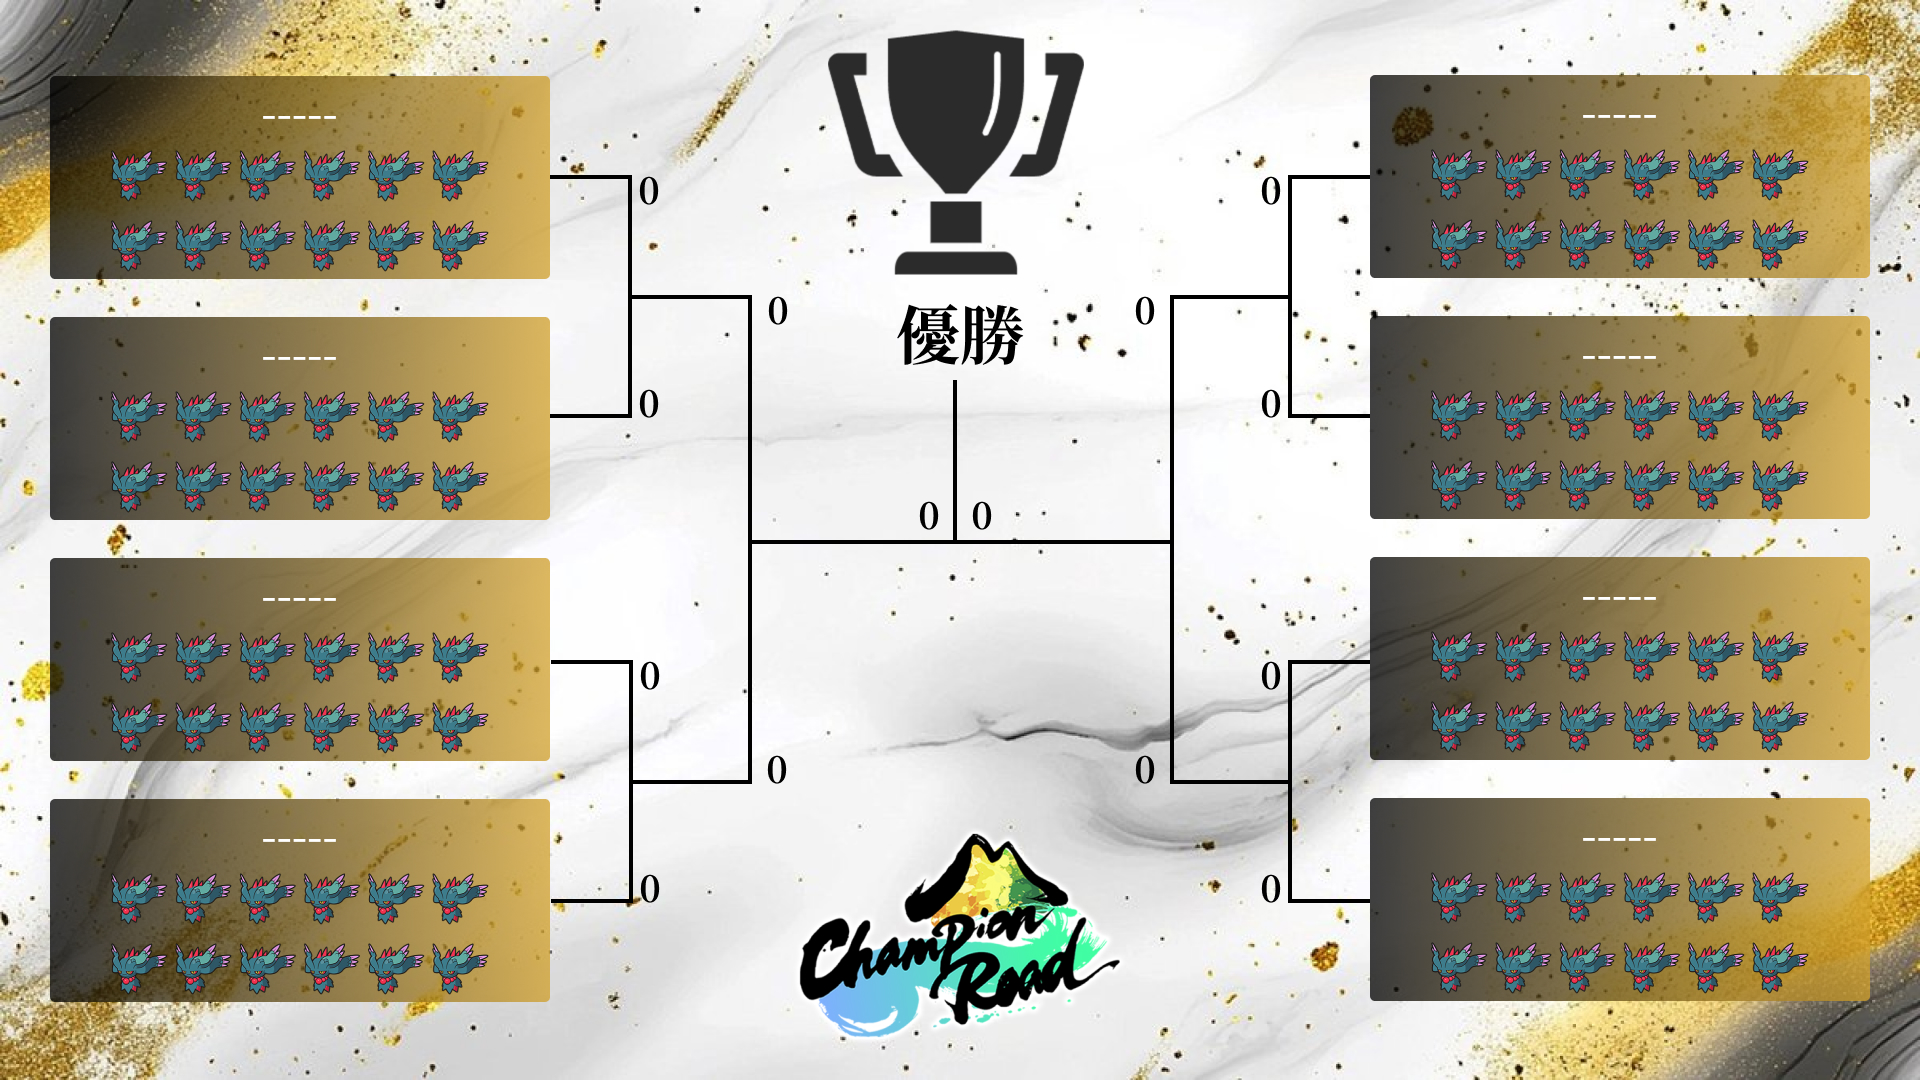
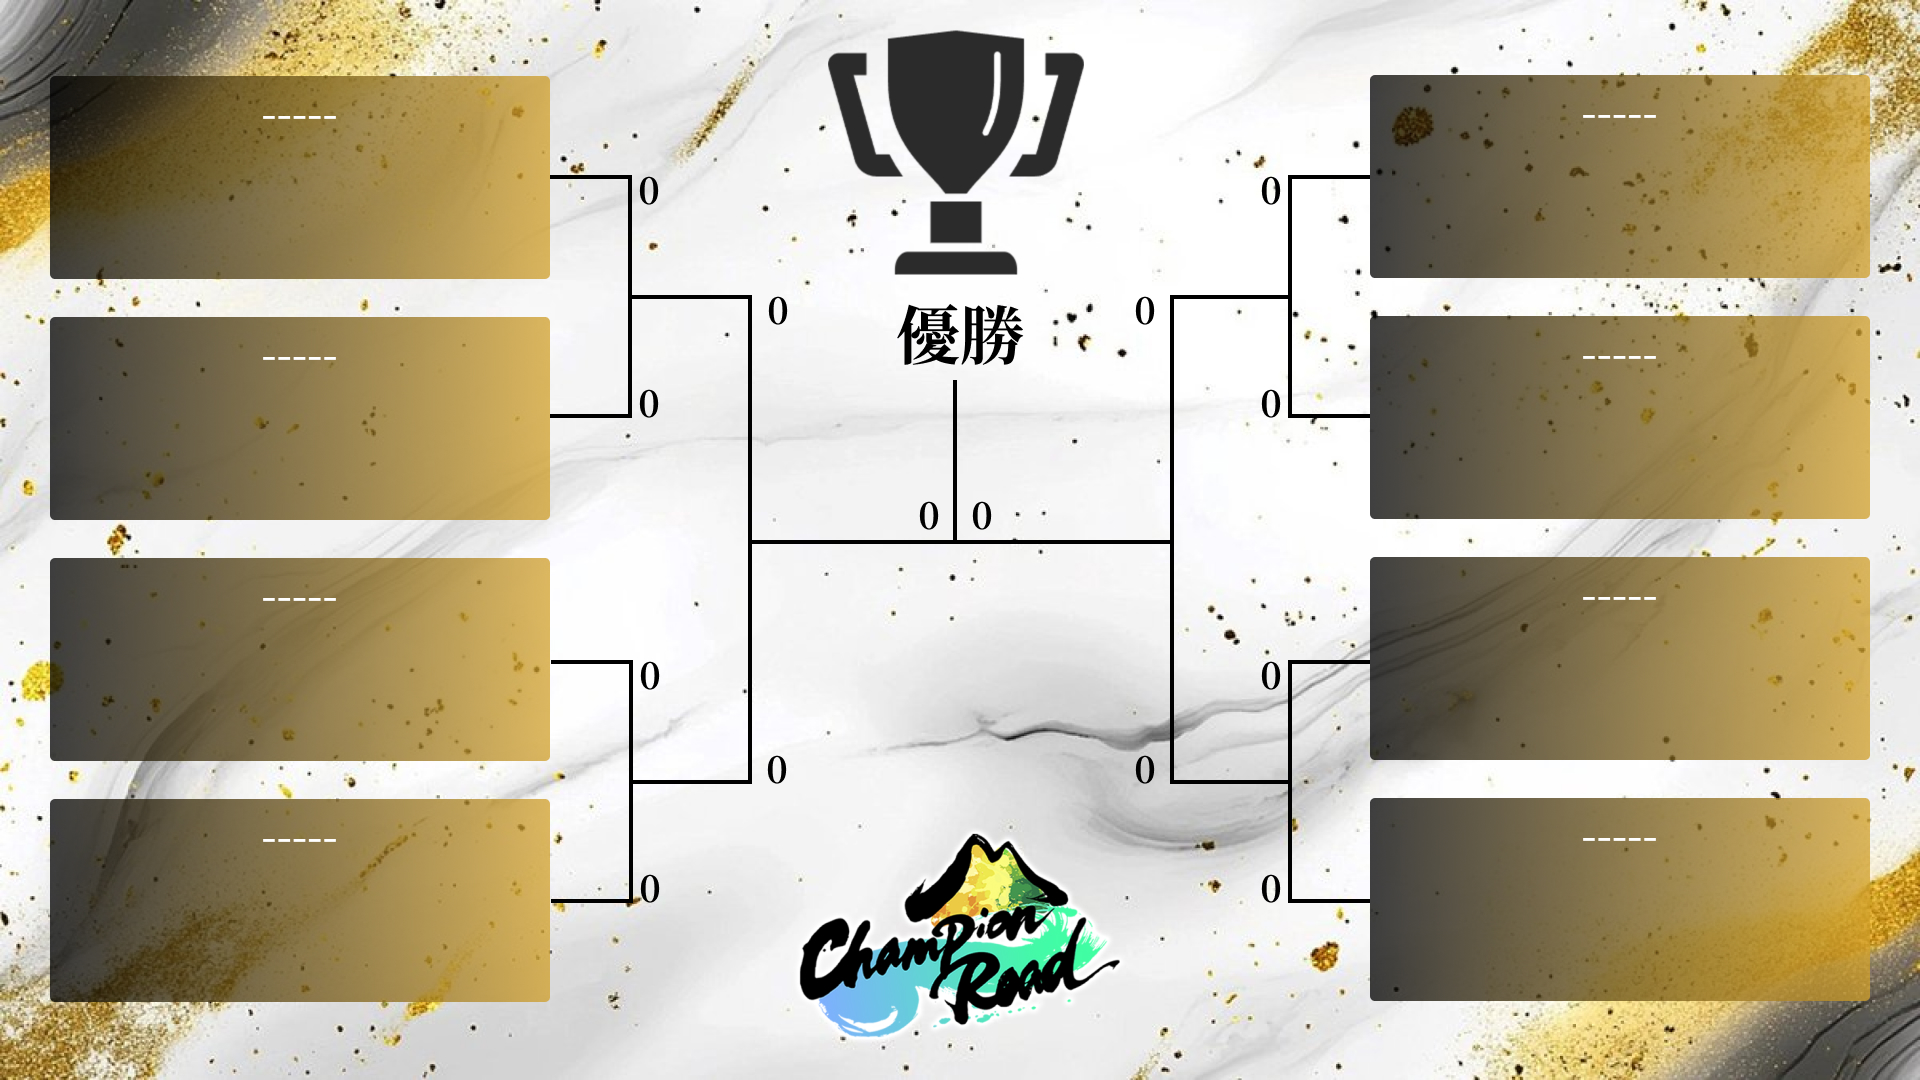
fix: ブラケットのスタイルを調整

diff --git a/src/components/Topcut/TopcutPlayerSelector.tsx b/src/components/Topcut/TopcutPlayerSelector.tsx
@@ -5,87 +5,114 @@ import { useCallback, useMemo } from 'react';
 import { PokemonNum } from '../../types/scoreboard';
 import { emptyParty, pokemonNumList } from '../../utils/const';
 
+// プレイヤー選択とパーティ選択を組み合わせた型
+type PlayerWithPartyOption = {
+  label: string;
+  playerName: string;
+  partyNum?: number;
+  accountID?: string;
+};
+
 // TODO: プレイヤーが重複した時にエラーを出す
 export const TopcutPlayerSelector = ({ topcutPlace }: { topcutPlace: number }) => {
-  const [playerRep] = useReplicant('Player');
   const [partiesRep] = useReplicant('Parties');
   const [topcutRep, setTopcutRep] = useReplicant('Topcut');
-  const playerName = useMemo(
-    () => topcutRep?.players?.find((player) => player.place === topcutPlace)?.name ?? 'なし',
-    [topcutRep, topcutPlace]
-  );
-  const players = useMemo(
-    () => [...new Set(playerRep?.map((player) => player.player_name || '')), 'なし'],
-    [playerRep]
-  );
+
+  // 現在選択されているプレイヤーの情報
+  const selectedPlayerInfo = useMemo(() => {
+    const currentPlayer = topcutRep?.players?.find((player) => player.place === topcutPlace);
+    if (!currentPlayer || currentPlayer.name === 'なし') {
+      return { label: 'なし', playerName: 'なし' };
+    }
+    return { label: currentPlayer.name, playerName: currentPlayer.name.split('_')[0] };
+  }, [topcutRep, topcutPlace]);
+
+  // 利用可能なプレイヤー＋パーティのオプション
+  const playerOptions = useMemo(() => {
+    // 「なし」オプション
+    const options: PlayerWithPartyOption[] = [{ label: 'なし', playerName: 'なし' }];
+
+    // パーティデータからオプションを作成
+    if (partiesRep) {
+      const partyOptions = [...partiesRep].filter(party => party.accountID && party.party_num && party.player_name)
+        .map(party => ({
+          label: `${party.player_name}_${party.party_num}`,
+          playerName: party.player_name || '',
+          partyNum: party.party_num || undefined,
+          accountID: party.accountID || undefined
+        }));
+
+      options.push(...partyOptions);
+    }
+
+    return options;
+  }, [partiesRep]);
+
+  // 特定のパーティからポケモン情報を取得
   const getParty = useCallback(
-    (playerName: string) => {
-      if (!partiesRep) return emptyParty;
-      
-      // デバッグ用のログ追加
-      console.log('検索するプレイヤー名:', playerName);
-      console.log('利用可能なプレイヤー名一覧:', [...partiesRep].map(p => p.player_name));
-      
-      const partyInfo = [...partiesRep].find((party) => {
-        if (!party.player_name) return false;
-        
-        if (party.player_name.includes(playerName) || playerName.includes(party.player_name)) {
-          console.log('部分一致したが完全一致しなかったケース:', {
-            検索名: playerName,
-            データベース上の名前: party.player_name,
-            長さ: {
-              検索名: playerName.length,
-              データベース上の名前: party.player_name.length
-            },
-            文字コード: {
-              検索名: Array.from(playerName).map(c => c.charCodeAt(0)),
-              データベース上の名前: Array.from(party.player_name).map(c => c.charCodeAt(0))
-            }
-          });
-        }
-        return party.player_name === playerName;
-      });
+    (option: PlayerWithPartyOption) => {
+      if (!partiesRep || option.playerName === 'なし') return emptyParty;
+
+      console.log('選択されたオプション:', option);
+
+      // パーティ番号で絞り込む
+      const partyInfo = option.partyNum !== undefined
+        ? [...partiesRep].find(party =>
+            party.player_name === option.playerName &&
+            party.party_num === option.partyNum)
+        : [...partiesRep].find(party =>
+            party.player_name === option.playerName);
 
       console.log('見つかったパーティ情報:', partyInfo);
-      console.log('pokemonNumList:', pokemonNumList);
-      
+
+      // パーティが見つからない場合は空のパーティを返す
+      if (!partyInfo) return emptyParty;
+
+      // パーティ情報からポケモン名を抽出
       const result = pokemonNumList.map((key) => {
-        const pokemon = partyInfo?.[key as PokemonNum];
+        const pokemon = partyInfo[key as PokemonNum];
         console.log(`${key}のポケモン:`, pokemon);
         return pokemon ?? '';
       });
-      
+
       return result;
     },
     [partiesRep]
   );
+
+  // 選択変更時の処理
   const onChange = useCallback(
-    (_event: unknown, newPlayer: string | null) => {
+    (_event: unknown, newOption: PlayerWithPartyOption | null) => {
       if (!topcutRep) return;
-      console.log(newPlayer);
+
+      const option = newOption || { label: 'なし', playerName: 'なし' };
+      console.log('選択されたプレイヤー:', option);
+
       setTopcutRep({
         total: topcutRep.total,
         players: topcutRep.players?.map((player) =>
           player.place === topcutPlace
             ? {
                 ...player,
-                name: newPlayer ?? 'なし',
-                party: getParty(newPlayer ?? 'なし'),
+                name: option.label,
+                party: getParty(option),
               }
             : player
         ),
       });
     },
-    [topcutRep]
+    [topcutRep, getParty]
   );
-  console.log('topcutRep', topcutRep);
+
   return (
     <Autocomplete
       id={`Topcut-PlayerSelector-${topcutPlace}`}
       size="small"
-      value={playerName}
+      value={selectedPlayerInfo}
       onChange={onChange}
-      options={players}
+      options={playerOptions}
+      isOptionEqualToValue={(option, value) => option.label === value.label}
+      getOptionLabel={(option) => option.label}
       sx={{ width: 150 }}
       renderInput={(params) => <TextField {...params} label="プレイヤー" variant="standard" />}
     />

diff --git a/src/graphics/bracket/conponents/TopcutParty.graphics.tsx b/src/graphics/bracket/conponents/TopcutParty.graphics.tsx
@@ -1,23 +1,21 @@
-import { useKP } from '../../../hooks/useKP';
 import { usePokedex } from '../../../hooks/usePokedex';
 import { emptyParty } from '../../../utils/const';
-// import { useReplicant } from '../../../hooks/useReplicant';
+import { useReplicant } from '../../../hooks/useReplicant';
 
 export const TopcutPartyGraphics = ({ place }: { place: number }) => {
-  // const [topcutRep] = useReplicant('Topcut');
+  const [topcutRep] = useReplicant('Topcut');
   const { getPokemonIcon } = usePokedex();
-  const { getSortedTopcut } = useKP();
-  const sortedTopcut = getSortedTopcut() ?? [{
-    playerName: '',
-    kpScore: 0,
-    party: emptyParty,
-  }];
 
-  const player = sortedTopcut[place - 1];
+  // 元のplaceに対応するプレイヤーを探す
+  const player = topcutRep?.players?.find(p => p.place === place);
+
+  // プレイヤーが見つからない場合は空のパーティを表示
+  const party = player?.party || emptyParty;
+
   return (
     <div className="party_row">
-      {player?.party.map((pokemon) => (
-        <img className="pokemonIcon" src={getPokemonIcon(pokemon)} alt="" />
+      {party.map((pokemon, index) => (
+        <img key={index} className="pokemonIcon" src={getPokemonIcon(pokemon)} alt="" />
       ))}
     </div>
   );

diff --git a/src/graphics/bracket/App.css b/src/graphics/bracket/App.css
@@ -6,9 +6,9 @@
   color: aliceblue;
 }
 
-body {
+/* body {
   background: url(../../assets/bracket.jpg);
-}
+} */
 
 .wrapper {
   display: flex;
@@ -24,7 +24,8 @@ body {
 .bracket-left, .bracket-right {
   display: flex;
   flex-direction: column;
-  margin: 0 20px;
+  margin: -125px 600px 0 80px;
+  gap: 105px;
 }
 
 .list {
@@ -38,7 +39,11 @@ body {
   display: flex;
   position: relative;
   width: 420px;
-  margin-bottom: 35px;
+  margin-bottom: 5px;
+}
+
+.list .party_row:last-child {
+  margin-bottom: 0;
 }
 
 .score {

diff --git a/src/graphics/bracket/conponents/TopcutPartyList.graphics.tsx b/src/graphics/bracket/conponents/TopcutPartyList.graphics.tsx
@@ -4,7 +4,7 @@ export const TopcutPartyList = ({ start, end }: { start: number; end: number }) 
   return (
     <div className="list">
       {[...Array(end - start + 1)].map((_, index) => {
-        return <TopcutPartyGraphics key={`Topcut-Place-${index + 1}`} place={start + index} />;
+        return <TopcutPartyGraphics key={`Topcut-Place-${start + index}`} place={start + index} />;
       })}
     </div>
   );
